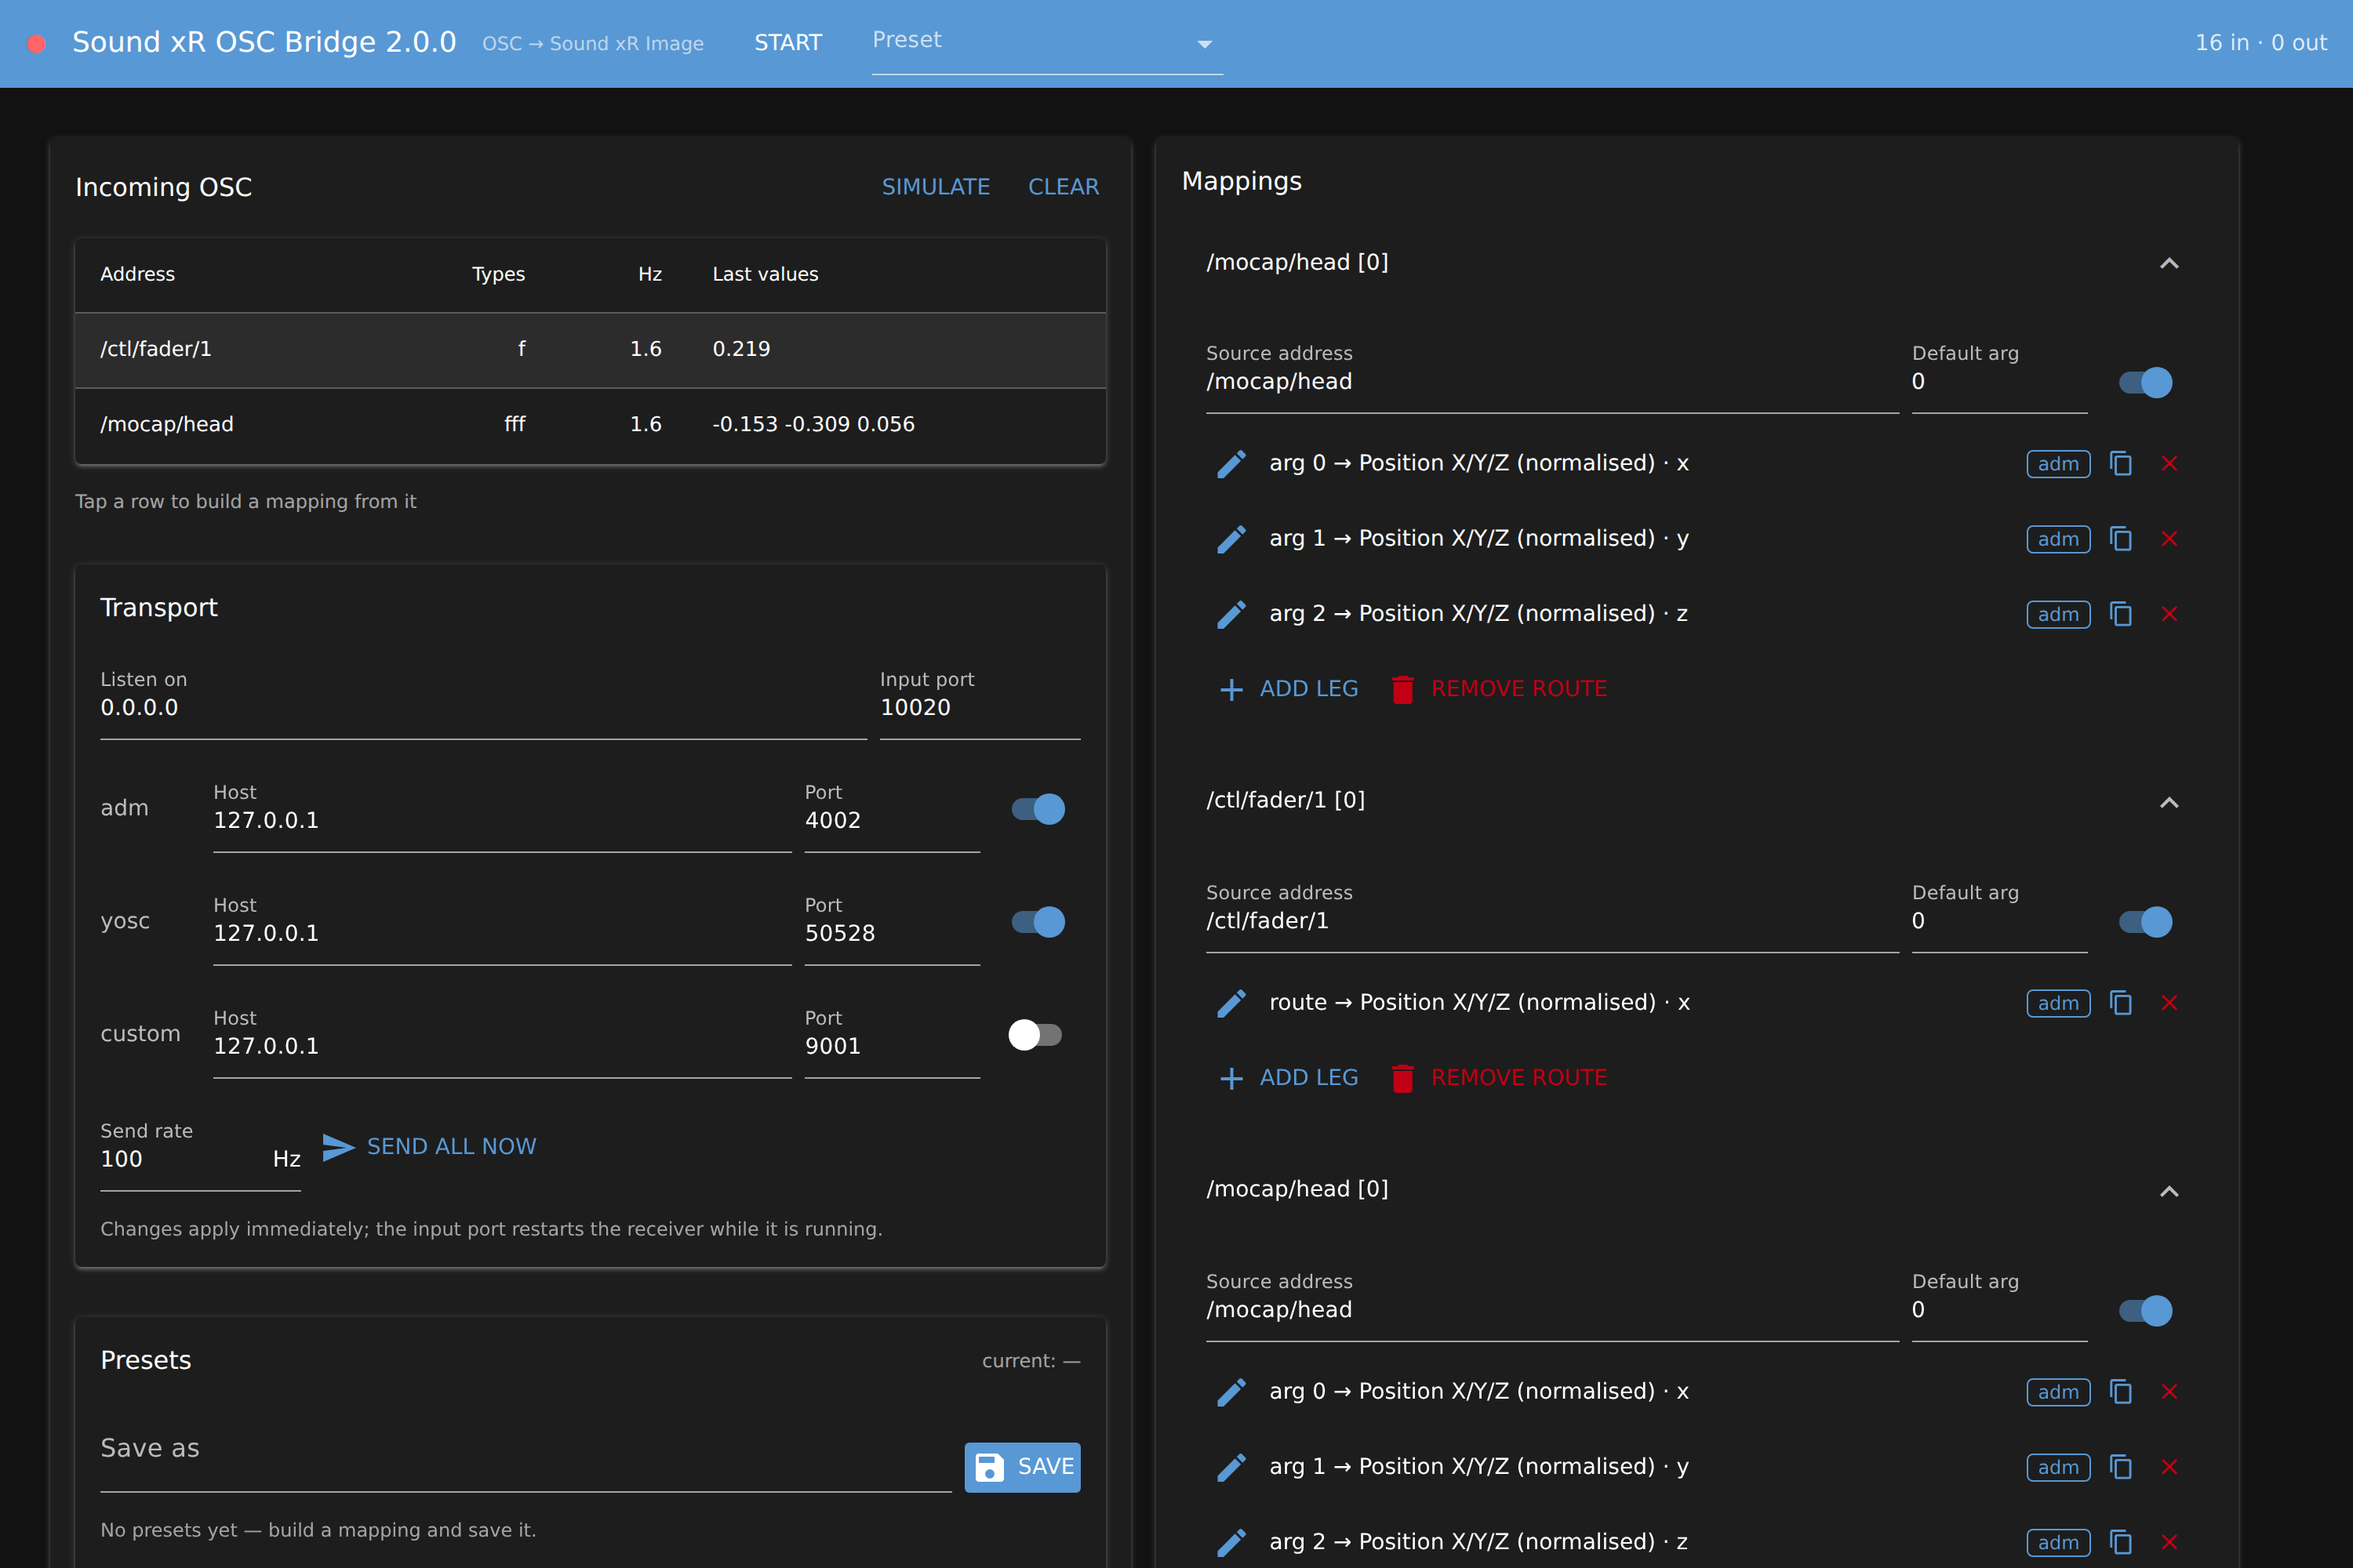
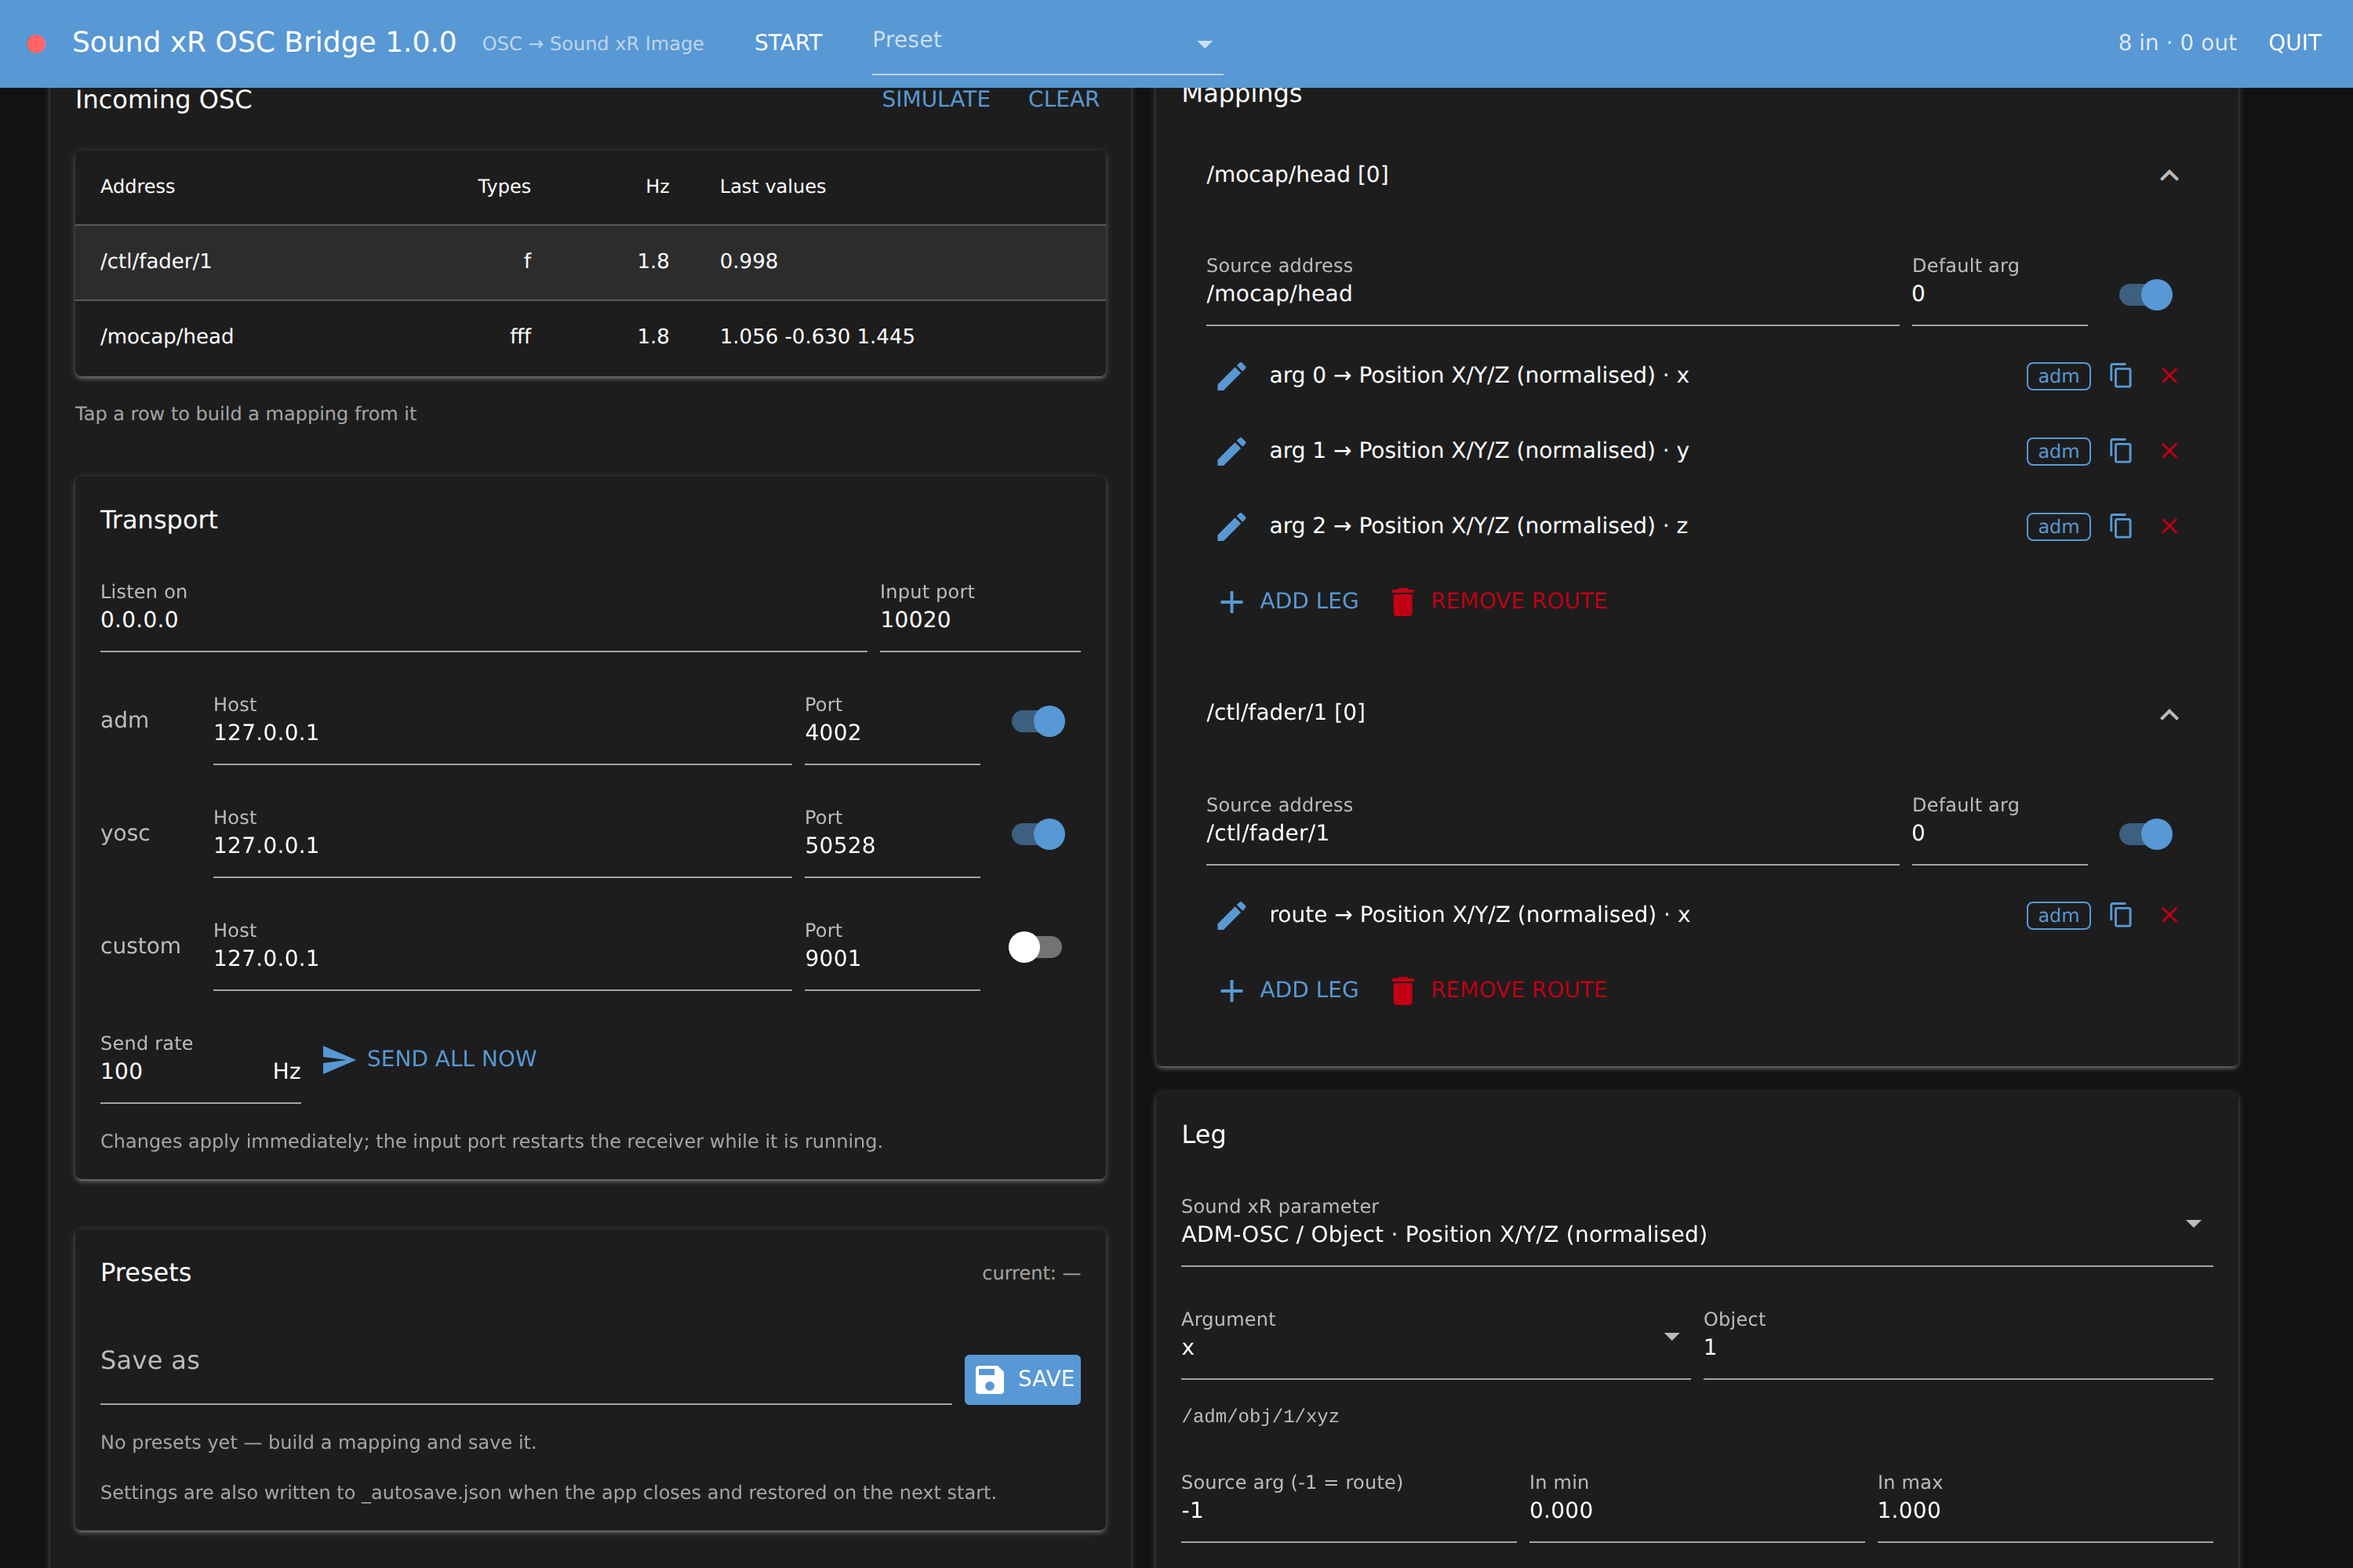
Reset release number to 1.0.0 & added simplified release numbering

diff --git a/tools/set_version.py b/tools/set_version.py
@@ -1,0 +1,71 @@
+"""Set — or check — the one version number the project has.
+
+    python tools/set_version.py 1.1.0        # write it
+    python tools/set_version.py --check 1.1.0
+
+soundxr_bridge/__init__.py holds the only literal: pyproject.toml reads it
+through setuptools' dynamic version, and the PyInstaller spec imports it, so
+the app header, the wheel and the macOS bundle version can never drift apart.
+
+CI runs this on a tag push so a release binary always reports the tag it was
+built from, even when the bump was forgotten before tagging.
+"""
+
+from __future__ import annotations
+
+import argparse
+import re
+import sys
+from pathlib import Path
+
+INIT = Path(__file__).resolve().parents[1] / "soundxr_bridge" / "__init__.py"
+PATTERN = re.compile(r'^__version__ = "([^"]+)"$', re.MULTILINE)
+# not full semver: a release candidate or a date-stamped build is fine too
+VALID = re.compile(r"^[0-9]+\.[0-9]+\.[0-9]+([-.+][0-9A-Za-z.-]+)?$")
+
+
+def current() -> str:
+    match = PATTERN.search(INIT.read_text(encoding="utf-8"))
+    if not match:
+        raise SystemExit(f"no __version__ line found in {INIT}")
+    return match.group(1)
+
+
+def write(version: str) -> None:
+    text = INIT.read_text(encoding="utf-8")
+    INIT.write_text(PATTERN.sub(f'__version__ = "{version}"', text, count=1),
+                    encoding="utf-8")
+
+
+def main(argv: list[str] | None = None) -> int:
+    ap = argparse.ArgumentParser(description="set the project version")
+    ap.add_argument("version", nargs="?", help="e.g. 1.1.0 (a leading v is dropped)")
+    ap.add_argument("--check", metavar="VERSION",
+                    help="exit non-zero unless the project already says this")
+    args = ap.parse_args(argv)
+
+    if args.check:
+        wanted = args.check.lstrip("vV")
+        have = current()
+        if have != wanted:
+            print(f"version mismatch: the tag says {wanted}, "
+                  f"soundxr_bridge/__init__.py says {have}", file=sys.stderr)
+            return 1
+        print(f"version {have} matches")
+        return 0
+
+    if not args.version:
+        print(current())
+        return 0
+
+    version = args.version.lstrip("vV")
+    if not VALID.match(version):
+        print(f"'{version}' does not look like a version number", file=sys.stderr)
+        return 2
+    write(version)
+    print(f"version set to {version}")
+    return 0
+
+
+if __name__ == "__main__":
+    raise SystemExit(main())

diff --git a/soundxr_bridge/__init__.py b/soundxr_bridge/__init__.py
@@ -1,3 +1,3 @@
 """Sound xR OSC Bridge — auto-discovering OSC mapper for Yamaha Sound xR Image."""
 
-__version__ = "2.0.0"
+__version__ = "1.0.0"

diff --git a/docs/RELEASING.md b/docs/RELEASING.md
@@ -1,0 +1,93 @@
+# Releasing a new version
+
+Everything here is done from the project folder. Nothing is automatic until you
+push a tag — pushing a branch only builds, it never releases.
+
+## Where the version lives
+
+One line, in `soundxr_bridge/__init__.py`:
+
+```python
+__version__ = "1.0.0"
+```
+
+`pyproject.toml` reads it through setuptools' dynamic version and
+`packaging/soundxr_bridge.spec` imports it, so the app header, the Python
+package and the macOS bundle version all follow automatically. **Do not type a
+version number anywhere else.** If you find one, it is a bug.
+
+Use the script rather than editing by hand — it validates the number and is the
+same one CI runs:
+
+```bash
+python tools/set_version.py            # what is it now?
+python tools/set_version.py 1.1.0      # set it (a leading "v" is stripped)
+python tools/set_version.py --check 1.1.0
+```
+
+## Picking the number
+
+`MAJOR.MINOR.PATCH`, and for this app that means:
+
+| Part | Bump it when |
+|---|---|
+| PATCH `1.0.→1` | a fix, nothing new to learn: a wrong address in the catalogue, a crash |
+| MINOR `1.→1.0` | something new that does not break existing shows: a curve, a target, a button |
+| MAJOR `→2.0.0` | old presets stop loading, or the interface is rearranged enough to retrain on |
+
+Never reuse a number that has been published, and never go backwards — the
+Releases page sorts by what you tell it.
+
+## The release itself
+
+```bash
+python tools/set_version.py 1.1.0
+python -m pytest tests -q                    # must be green before you tag
+git add -A
+git commit -m "Release 1.1.0"
+git push origin develop                      # run 1: builds, no release
+#   wait for the run to go green in the Actions tab
+git tag 1.1.0
+git push origin 1.1.0                        # run 2: builds again, then releases
+```
+
+Then look at the repository's **Releases** page: `1.1.0` with four files
+attached — Windows `.zip`, macOS arm64, macOS Intel, Linux `.zip`.
+
+In SourceTree, tags are **not** pushed with the branch: tick *Push tags* in the
+push dialog, or the second run never starts.
+
+## What CI does
+
+`.github/workflows/build.yml`, four jobs (Windows, macOS arm64, macOS Intel,
+Linux). Each one installs the dependencies, runs the test suite, builds with
+PyInstaller and runs `packaging/smoke_test.py` — which starts the packaged
+binary and pushes a real OSC message through it.
+
+- **push to `master`, `main` or `develop`** → builds, uploads artifacts to the
+  run page (they expire after 90 days). No release.
+- **push of a tag** like `1.1.0` or `v1.1.0` → the same builds, then the
+  `release` job attaches them to a permanent Releases entry.
+
+On a tag push CI also runs `tools/set_version.py <tag>` before building, so the
+binaries always report the tag they came from. That stamps the build only, not
+the repository — which is why step one above is still setting the version by
+hand.
+
+## When it goes wrong
+
+| Symptom | Cause and fix |
+|---|---|
+| Tag pushed, no run started at all | The tag name does not match the `tags:` filter at the top of `build.yml`. It accepts `v1.1.0` and `1.1.0`, nothing else. |
+| Run went green, but no release appeared | The `release` job needs **all four** builds to succeed — one failed or cancelled job (a stalled macOS Intel runner, say) skips it. Re-run the failed job from the Actions page. |
+| Release used the wrong workflow | GitHub runs `build.yml` **as it exists at the tagged commit**, not the newest one on the branch. Tag a commit that already contains your workflow changes. |
+| Re-pushing the tag does nothing | A tag that already exists on GitHub cannot re-fire. Delete it locally and remotely (`git tag -d 1.1.0 && git push origin :refs/tags/1.1.0`) and push it again, or — cleaner — move to the next number. |
+| Pushing `build.yml` is rejected | Editing a workflow file needs a token with the `workflow` scope. Either use the classic PAT set up in SourceTree, or edit the file directly on github.com, which needs no token, then pull. |
+| macOS release is a `.zip`, not a `.dmg` | The signing secrets are not set, so the job shipped an unsigned app — it still runs, via right-click → Open. See [SIGNING.md](SIGNING.md). |
+
+## Undoing a release
+
+Delete the release from the Releases page **and** delete its tag (deleting only
+the tag leaves the release behind as a draft). Then fix, and go out under the
+next number rather than reusing the old one — anyone who already downloaded the
+first one will never know it changed.

diff --git a/README.md b/README.md
@@ -182,7 +182,20 @@ asset fails the build instead of shipping.
 `.github/workflows/build.yml` builds all four targets (Windows, macOS arm64,
 macOS Intel, Linux) on every push, runs the tests and the smoke test, and
 attaches the results to a GitHub release when you push a version tag
-(`v2.0.0` or `2.0.0` — both are accepted).
+(`v1.1.0` or `1.1.0` — both are accepted).
+
+### Version numbers and releasing
+
+The version is one line in `soundxr_bridge/__init__.py`; `pyproject.toml` and
+the PyInstaller spec read it from there, so it is never typed twice.
+
+```bash
+python tools/set_version.py 1.1.0      # set it, then commit, push, tag 1.1.0
+```
+
+**[docs/RELEASING.md](docs/RELEASING.md) is the step-by-step**: how to pick the
+number, the exact commands, what CI does with a tag, and what to check when a
+release does not appear.
 
 **macOS signing** is wired up but dormant: with the four signing secrets set,
 the macOS jobs sign, notarise and staple a DMG; without them they produce an

diff --git a/docs/SIGNING.md b/docs/SIGNING.md
@@ -41,7 +41,7 @@ Find the exact identity string with `security find-identity -v -p codesigning`.
 ## 4 · Push a tag
 
 ```bash
-git tag v2.0.0 && git push origin v2.0.0
+git tag v1.0.0 && git push origin v1.0.0
 ```
 
 The macOS jobs then sign every binary in the bundle, sign the bundle, build a
